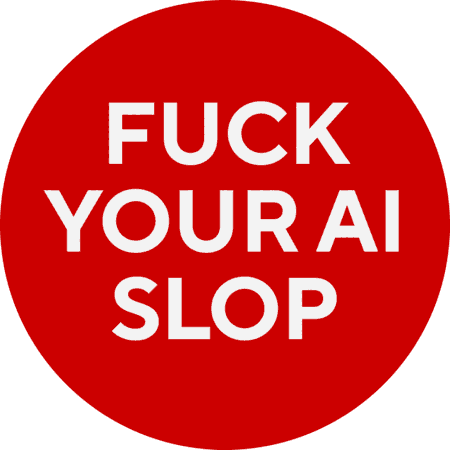
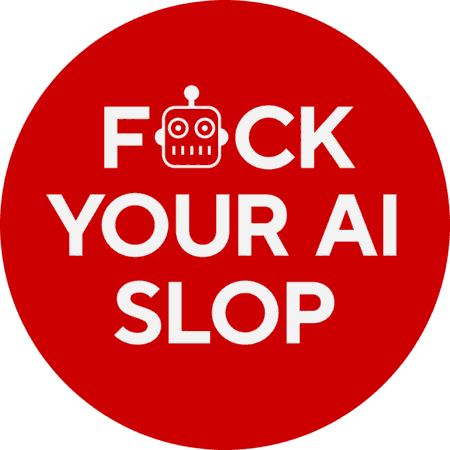
feat: update AI slop label

diff --git a/index.html b/index.html
@@ -198,7 +198,7 @@
 					</section>
 					<section class="card">
 						<img src="/files/labels/Fuck_AI_Slop_1.5in_24up_preview.png" alt="Fuck AI slop label" width="144px" />
-						<a class="btn file" href="/files/labels/Fuck_AI_Slop_1.5in_24up.pdf" data-type="1.5in 24up Round Labels" data-version="v1.0.0" target="_blank">AI slop label</a>
+						<a class="btn file" href="/files/labels/Fuck_AI_Slop_1.5in_24up.pdf" data-type="1.5in 24up Round Labels" data-version="v1.0.1" target="_blank">AI slop label</a>
 					</section>
 					<section class="card">
 						<img src="/files/labels/Circle_Game_3in_6up_preview.png" alt="Circle game label" width="288px" />
